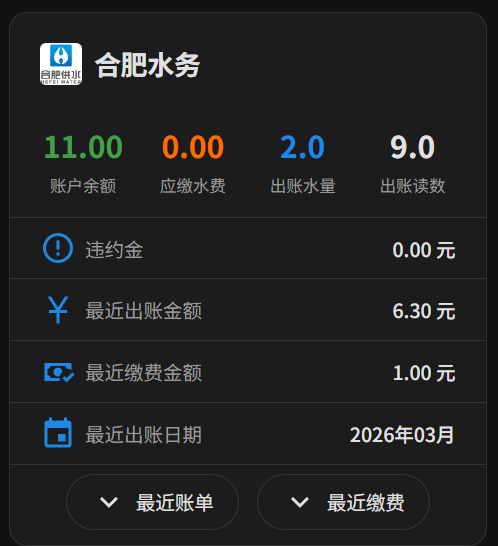
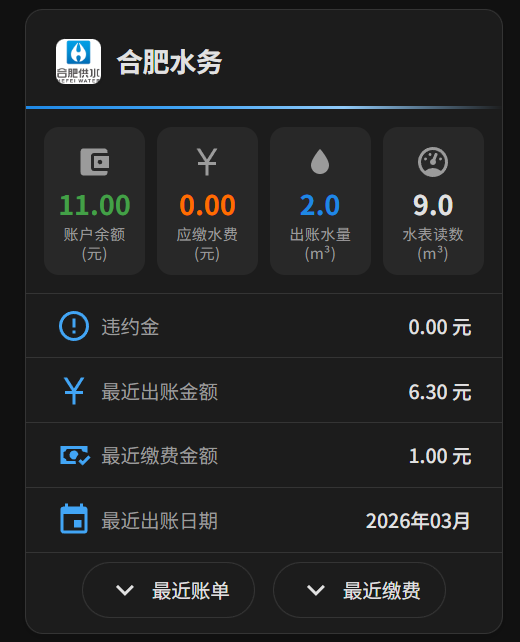
feat: card UI beautification
- Add gradient border to header, improve logo size and rounded corners with shadow
- Refactor summary row to grid 4-column layout with icons and rounded background
- Add hover lift effect on summary items
- Add unit line breaks in labels (yuan/m³)
- Add hover background effect on info rows, lighten icon color
- Remove subtitle row
- Update screenshots

diff --git a/custom_components/hfwater/www/hfwater-card.js b/custom_components/hfwater/www/hfwater-card.js
@@ -109,7 +109,9 @@ class HfWaterCard extends LitElement {
         display: flex;
         align-items: center;
         justify-content: space-between;
-        padding: 16px 20px 8px;
+        padding: 16px 20px 12px;
+        border-bottom: 2px solid transparent;
+        border-image: linear-gradient(90deg, #1E88E5, #42A5F5, #90CAF9, transparent) 1;
       }
       .card-title {
         font-size: 18px;
@@ -117,13 +119,14 @@ class HfWaterCard extends LitElement {
         color: var(--primary-text-color);
         display: flex;
         align-items: center;
-        gap: 8px;
+        gap: 10px;
       }
       .card-title img.card-logo {
-        width: 28px;
-        height: 28px;
-        border-radius: 4px;
+        width: 30px;
+        height: 30px;
+        border-radius: 6px;
         object-fit: contain;
+        box-shadow: 0 1px 4px rgba(0,0,0,0.12);
       }
       .card-subtitle {
         font-size: 12px;
@@ -133,27 +136,46 @@ class HfWaterCard extends LitElement {
 
       /* 汇总行 */
       .summary-row {
-        display: flex;
-        justify-content: space-around;
-        padding: 12px 16px;
+        display: grid;
+        grid-template-columns: repeat(4, 1fr);
+        padding: 12px 12px;
         gap: 8px;
       }
       .summary-item {
         text-align: center;
         flex: 1;
+        background: var(--secondary-background-color, rgba(0,0,0,0.03));
+        border-radius: 10px;
+        padding: 10px 4px 8px;
+        transition: transform 0.15s, box-shadow 0.15s;
+      }
+      .summary-item:hover {
+        transform: translateY(-2px);
+        box-shadow: 0 3px 10px rgba(0,0,0,0.08);
+      }
+      .summary-icon {
+        margin-bottom: 4px;
+      }
+      .summary-icon ha-icon {
+        --mdi-icon-size: 20px;
+        color: var(--secondary-text-color, #999);
       }
       .summary-value {
-        font-size: 20px;
+        font-size: 18px;
         font-weight: bold;
         color: var(--primary-text-color);
+        line-height: 1.3;
       }
       .summary-value.blue { color: #1E88E5; }
       .summary-value.green { color: #43A047; }
       .summary-value.orange { color: #FF6D00; }
       .summary-label {
-        font-size: 11px;
+        font-size: 10px;
         color: var(--secondary-text-color, #999);
         margin-top: 2px;
+        letter-spacing: 0.3px;
+        line-height: 1.3;
+        word-break: keep-all;
       }
 
       /* 信息行 */
@@ -161,9 +183,13 @@ class HfWaterCard extends LitElement {
         display: flex;
         justify-content: space-between;
         align-items: center;
-        padding: 8px 20px;
+        padding: 9px 20px;
         border-top: 1px solid var(--divider-color, #eee);
         font-size: 13px;
+        transition: background 0.15s;
+      }
+      .info-row:hover {
+        background: var(--secondary-background-color, rgba(0,0,0,0.02));
       }
       .info-label {
         color: var(--secondary-text-color, #999);
@@ -173,7 +199,7 @@ class HfWaterCard extends LitElement {
       }
       .info-label ha-icon {
         --mdi-icon-size: 16px;
-        color: #1E88E5;
+        color: #42A5F5;
       }
       .info-value {
         color: var(--primary-text-color);
@@ -407,29 +433,30 @@ class HfWaterCard extends LitElement {
               <img class="card-logo" src="/hfwater-local/logo.png" alt="logo">
               ${this.config.title || "合肥供水"}
             </div>
-            ${customerName || customerAddress
-              ? html`<div class="card-subtitle">${customerName}${customerName && customerAddress ? " · " : ""}${customerAddress}</div>`
-              : ""}
           </div>
         </div>
 
         <!-- 汇总数据 -->
         <div class="summary-row">
           <div class="summary-item">
+            <div class="summary-icon"><ha-icon icon="mdi:wallet"></ha-icon></div>
             <div class="summary-value green">${this._fmt(balance)}</div>
-            <div class="summary-label">账户余额</div>
+            <div class="summary-label">账户余额<br>(元)</div>
           </div>
           <div class="summary-item">
+            <div class="summary-icon"><ha-icon icon="mdi:currency-cny"></ha-icon></div>
             <div class="summary-value orange">${this._fmt(needPay)}</div>
-            <div class="summary-label">应缴水费</div>
+            <div class="summary-label">应缴水费<br>(元)</div>
           </div>
           <div class="summary-item">
+            <div class="summary-icon"><ha-icon icon="mdi:water"></ha-icon></div>
             <div class="summary-value blue">${this._fmt(billUsage, 1)}</div>
-            <div class="summary-label">出账水量</div>
+            <div class="summary-label">出账水量<br>(m³)</div>
           </div>
           <div class="summary-item">
+            <div class="summary-icon"><ha-icon icon="mdi:gauge"></ha-icon></div>
             <div class="summary-value" style="color:var(--primary-text-color)">${this._fmt(billMeterReading, 1)}</div>
-            <div class="summary-label">出账读数</div>
+            <div class="summary-label">水表读数<br>(m³)</div>
           </div>
         </div>
 
